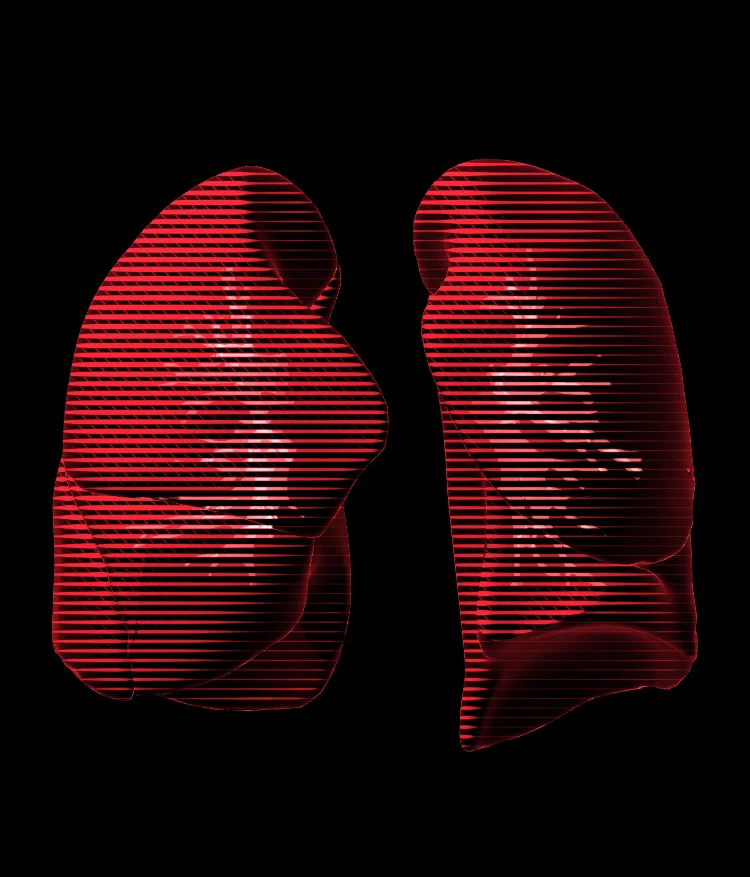
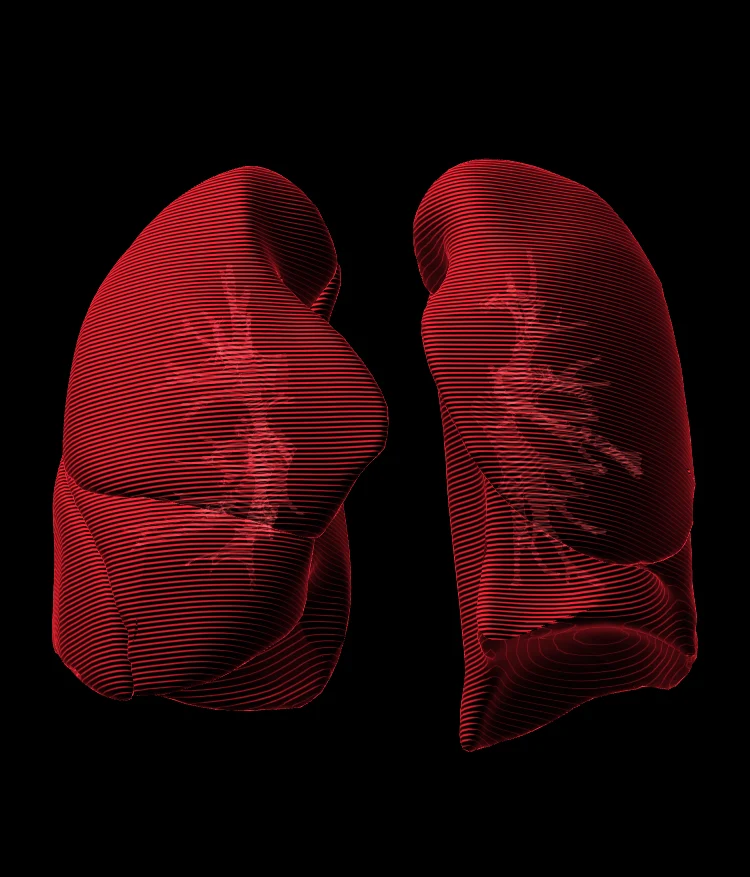
Life: tuned over critic rounds
Engraving lines on planes tilted towards the eye, so they bow over the lobes; a finer
hatch; the bronchi as the same lines, fainter. The glow stamps separate echoes of the
edge that stream out on the out-breath and soften and fade on the in-breath, quieter
in the gap between the lungs. A softer dim round the link home on every page.

Changed region(s): [[0.0613, 0.1847, 0.5213, 0.8005], [0.552, 0.1847, 0.92, 0.862]]

diff --git a/src/stage/bg/glow.js b/src/stage/bg/glow.js
@@ -14,7 +14,10 @@ const FEED_FS = `#version 300 es
 precision highp float;
 uniform sampler2D uPrev; uniform vec2 uRes, uC; uniform float uK, uFade;
 out vec4 o;
-void main(){ vec2 p = uC + (gl_FragCoord.xy - uC)/uK; o = texture(uPrev, p/uRes)*uFade; }`;
+void main(){
+  vec2 p = uC + (gl_FragCoord.xy - uC)/uK, e = vec2(.5, 0.);
+  o = (texture(uPrev, p/uRes)*2. + texture(uPrev, (p + e)/uRes) + texture(uPrev, (p - e)/uRes) + texture(uPrev, (p + e.yx)/uRes) + texture(uPrev, (p - e.yx)/uRes))/6.*uFade;   // a touch of blur each step: each echo softens as it ages
+}`;
 // the outline: a soft line, brightest at its core
 const LINE_VS = `#version 300 es
 in vec2 aP; in float aSide; uniform vec2 uRes; out float vSide;
@@ -26,12 +29,13 @@ void main(){ float k = exp(-vSide*vSide*3.)*uGain; o = vec4(k, k, k, k); }`;
 // to the screen: red, burning towards pink where the trails pile up, dimmed under the words
 const SHOW_FS = `#version 300 es
 precision highp float;
-uniform sampler2D uImg; uniform vec2 uRes;
+uniform sampler2D uImg; uniform vec2 uRes; uniform float uCx, uGap, uTop;
 ${WORDS}
 out vec4 o;
 void main(){
-  float v = texture(uImg, gl_FragCoord.xy/uRes).r, g = 1. - exp(-v*1.6);
-  vec3 c = mix(vec3(1., .137, .22), vec3(1., .72, .74), smoothstep(.55, 1., g))*g*clearOfWords();
+  float v = texture(uImg, gl_FragCoord.xy/uRes).r*mix(gl_FragCoord.y > uTop ? .3 : .5, 1., smoothstep(0., uGap*1.5, abs(gl_FragCoord.x - uCx)));   // weaker in the gap, where both lungs' echoes meet, and weaker still above them
+  float g = 1. - exp(-v*1.6);
+  vec3 c = mix(vec3(1., .137, .22), vec3(1., .72, .74), smoothstep(.8, .98, g))*g*clearOfWords();   // pink only where the newest edge is
   o = vec4(c, max(c.r, max(c.g, c.b)));
 }`;
 
@@ -50,7 +54,7 @@ export function createGlow(canvas, { lite = false, preserve = false } = {}, json
   gl.enableVertexAttribArray(line.a('aP')); gl.vertexAttribPointer(line.a('aP'), 2, gl.FLOAT, false, 12, 0);
   gl.enableVertexAttribArray(line.a('aSide')); gl.vertexAttribPointer(line.a('aSide'), 1, gl.FLOAT, false, 12, 8);
   gl.bindVertexArray(null);
-  let tex = [], fb = [], cur = 0, W = 0, H = 0, simT = null, lastB = 0;
+  let tex = [], fb = [], cur = 0, W = 0, H = 0, simT = null, lastB = 0, nStep = 0, live = null;
   const target = () => { const t = gl.createTexture(); gl.bindTexture(gl.TEXTURE_2D, t);
     if (hdr) gl.texImage2D(gl.TEXTURE_2D, 0, gl.RGBA16F, W, H, 0, gl.RGBA, gl.HALF_FLOAT, null); else gl.texImage2D(gl.TEXTURE_2D, 0, gl.RGBA8, W, H, 0, gl.RGBA, gl.UNSIGNED_BYTE, null);
     for (const [k, v] of [[gl.TEXTURE_MIN_FILTER, gl.LINEAR], [gl.TEXTURE_MAG_FILTER, gl.LINEAR], [gl.TEXTURE_WRAP_S, gl.CLAMP_TO_EDGE], [gl.TEXTURE_WRAP_T, gl.CLAMP_TO_EDGE]]) gl.texParameteri(gl.TEXTURE_2D, k, v);
@@ -60,8 +64,8 @@ export function createGlow(canvas, { lite = false, preserve = false } = {}, json
 
   // one feedback step at time t: the old picture grows and fades, the edge is drawn where it is now
   const step = (t, v) => {
-    const b = breath(t), out = b < lastB; lastB = b;
-    const fit = fitBox(v.rect, json.size, v.scale), cx = fit.cx, cy = H - fit.cy, half = (lite ? 1.6 : 2.2) * v.scale;
+    const b = breath(t), out = b < lastB; lastB = b; nStep++;
+    const fit = fitBox(v.rect, json.size, v.scale), cx = fit.cx, cy = H - fit.cy, half = (lite ? 2.2 : 3.0) * v.scale;
     let n = 0;
     for (const L of loops) {
       const P = L.map(p => { const q = breathe(p, b, json.size); return [cx + q[0] * fit.s, cy + q[1] * fit.s]; });
@@ -74,12 +78,13 @@ export function createGlow(canvas, { lite = false, preserve = false } = {}, json
     gl.bindFramebuffer(gl.FRAMEBUFFER, fb[nxt]); gl.viewport(0, 0, W, H); gl.disable(gl.BLEND);
     gl.useProgram(feed.p); gl.bindVertexArray(qvao); gl.activeTexture(gl.TEXTURE0); gl.bindTexture(gl.TEXTURE_2D, tex[cur]);
     gl.uniform1i(feed.u.uPrev, 0); gl.uniform2f(feed.u.uRes, W, H); gl.uniform2f(feed.u.uC, cx, cy);
-    gl.uniform1f(feed.u.uK, out ? 1.009 : 1.002); gl.uniform1f(feed.u.uFade, 0.985);   // slow to fade, so the trails reach well out
+    gl.uniform1f(feed.u.uK, out ? 1.012 : 1.002); gl.uniform1f(feed.u.uFade, out ? 0.975 : 0.965);   // breathing out the echoes stream away; breathing in they settle and fade
     gl.drawArrays(gl.TRIANGLES, 0, 3);
     gl.enable(gl.BLEND); gl.blendFunc(gl.ONE, gl.ONE);
     gl.useProgram(line.p); gl.bindVertexArray(lvao); gl.bindBuffer(gl.ARRAY_BUFFER, lbuf); gl.bufferSubData(gl.ARRAY_BUFFER, 0, verts, 0, n);
-    gl.uniform2f(line.u.uRes, W, H); gl.uniform1f(line.u.uGain, 0.09);
-    gl.drawArrays(gl.TRIANGLES, 0, n / 3);
+    gl.uniform2f(line.u.uRes, W, H); gl.uniform1f(line.u.uGain, 0.5);
+    live = { cx, gap: 14 * fit.s, top: cy + json.size[1] / 2 * fit.s };
+    if (nStep % 7 === 0) gl.drawArrays(gl.TRIANGLES, 0, n / 3);   // stamped every seventh step: separate echoes of the edge, not a smear
     gl.disable(gl.BLEND); gl.bindVertexArray(null); gl.bindFramebuffer(gl.FRAMEBUFFER, null);
     cur = nxt;
   };
@@ -95,7 +100,7 @@ export function createGlow(canvas, { lite = false, preserve = false } = {}, json
       if (preserve || simT == null || t - simT > 0.5) { simT = t - 4; lastB = breath(simT); }
       let k = 0; while (simT + STEP <= t && k++ < 260) { simT += STEP; step(simT, v); }
       clear(); gl.useProgram(show.p); gl.bindVertexArray(qvao); gl.activeTexture(gl.TEXTURE0); gl.bindTexture(gl.TEXTURE_2D, tex[cur]);
-      gl.uniform1i(show.u.uImg, 0); gl.uniform2f(show.u.uRes, W, H); gl.uniform4fv(show.u.uText, v.text); gl.uniform4fv(show.u.uNav, v.nav);
+      gl.uniform1i(show.u.uImg, 0); gl.uniform2f(show.u.uRes, W, H); gl.uniform1f(show.u.uCx, live ? live.cx : W / 2); gl.uniform1f(show.u.uGap, live ? live.gap : 0); gl.uniform1f(show.u.uTop, live ? live.top : H); gl.uniform4fv(show.u.uText, v.text); gl.uniform4fv(show.u.uNav, v.nav);
       gl.drawArrays(gl.TRIANGLES, 0, 3); gl.bindVertexArray(null);
     },
   };

diff --git a/src/stage/lungs.js b/src/stage/lungs.js
@@ -27,14 +27,14 @@ void main(){
   if (uPass < .5) { o = vec4(0., 0., 0., 1.); return; }       // solid: what is behind the lungs stays hidden
   vec3 n = normalize(vN); if (!gl_FrontFacing) n = -n;
   float ndl = clamp(dot(n, normalize(vec3(-.45, .55, .7))), 0., 1.), rim = pow(1. - clamp(n.z, 0., 1.), 2.2);
-  float coord = vP.y*uFreq, f = abs(fract(coord) - .5)*2., w = fwidth(coord)*1.6;
+  float coord = (vP.y - .35*vP.z)*uFreq, f = abs(fract(coord) - .5)*2., w = fwidth(coord)*1.6;   // planes tilted towards the eye, so each line bows over the lobes
   float thick = bronchus ? .32 : mix(.05, .58, ndl*ndl);      // the engraver's line swells in the light
   float line = 1. - smoothstep(thick - w, thick + w, f);
   float c2 = dot(vP, normalize(vec3(1., 1., 0.)))*uFreq, f2 = abs(fract(c2) - .5)*2., w2 = fwidth(c2)*1.6;
-  float hatch = (1. - smoothstep(.12 - w2, .12 + w2, f2))*smoothstep(.7, .95, ndl);   // a crossing set, only in full light
-  float I = max(line, hatch*.7)*(.25 + .75*ndl) + rim*.55;
+  float hatch = (1. - smoothstep(.06 - w2, .06 + w2, f2))*smoothstep(.75, .97, ndl);   // a fine crossing set, only in full light
+  float I = max(line, hatch*.3)*(.25 + .75*ndl) + rim*.55;
   vec3 col = vec3(1., .14, .2);
-  if (bronchus) { I = line*(.5 + .5*ndl)*.45; col = vec3(1., .42, .42); }   // finer and paler, seen through the lung
+  if (bronchus) { I = line*(.6 + .4*ndl)*.28; col = vec3(1., .36, .38); }   // the same lines, fainter, seen through the lung
   I *= .9 + .15*uB;                                           // a little brighter full of air
   o = vec4(col*I, 0.);
 }`;
@@ -66,7 +66,7 @@ export function createLungs(canvas, mesh, json, { preserve = false, box = canvas
       gl.useProgram(pr.p); gl.bindVertexArray(vao);
       const u = pr.u;
       gl.uniform2f(u.uRes, canvas.width, canvas.height); gl.uniform2f(u.uC, fit.cx, fit.cy); gl.uniform1f(u.uS, fit.s); gl.uniform1f(u.uB, b); gl.uniform3fv(u.uSize, json.size);
-      gl.uniform1f(u.uFreq, Math.min(0.5, Math.max(0.16, fit.s / 9)));   // lines per mm: about nine device px apart, some seventy across the lungs' height
+      gl.uniform1f(u.uFreq, Math.min(0.7, Math.max(0.16, fit.s / Math.max(5, Math.min(7, 2.5 * sc)))));   // lines per mm: about seven device px apart, two and a half CSS px on a phone
       gl.enable(gl.DEPTH_TEST); gl.depthFunc(gl.LESS); gl.disable(gl.BLEND); gl.enable(gl.POLYGON_OFFSET_FILL); gl.polygonOffset(1, 1);
       gl.uniform1f(u.uPass, 0); gl.drawElements(gl.TRIANGLES, count, gl.UNSIGNED_INT, 0);
       gl.disable(gl.POLYGON_OFFSET_FILL); gl.depthMask(false); gl.depthFunc(gl.LEQUAL); gl.enable(gl.BLEND); gl.blendFunc(gl.ONE, gl.ONE);

diff --git a/src/stage/bg/layer.js b/src/stage/bg/layer.js
@@ -20,7 +20,7 @@ float box(vec4 r, float round, float soft){
   float d = length(max(q, 0.)) + min(max(q.x, q.y), 0.) - round;
   return smoothstep(0., soft, d);                       // fully dimmed right up to the box's edge, rising outside it
 }
-float clearOfWords(){ return mix(.15, 1., box(uText, 60., 110.))*box(uNav, 20., 70.); }`;
+float clearOfWords(){ return mix(.15, 1., box(uText, 60., 110.))*mix(.35, 1., box(uNav, 40., 120.)); }`;
 
 // the factory for each background, fetched only on its own page; each returns { size(scale), draw(t, view), clear() }
 // or null when its shaders cannot be built

diff --git a/tests/e2e/backgrounds.spec.js b/tests/e2e/backgrounds.spec.js
@@ -131,7 +131,7 @@ test.describe('Life: glowing lines', () => {
     expect(near.mean * r.w * r.h).toBeGreaterThan(0.6 * all.mean * (await page.evaluate(() => innerWidth * innerHeight)));
   });
   test('the words sit on a dimmed background', async ({ page }) => {
-    await page.goto('/life/?hage=2&hyaw=0'); await live(page);
+    await page.goto('/life/?hage=4.2&hyaw=0'); await live(page);   // mid breath out: the echoes cross the words
     const [under, bare] = await dimmedUnderWords(page);
     expect(bare).toBeGreaterThan(0.2); expect(under).toBeLessThan(bare * 0.45);
   });
